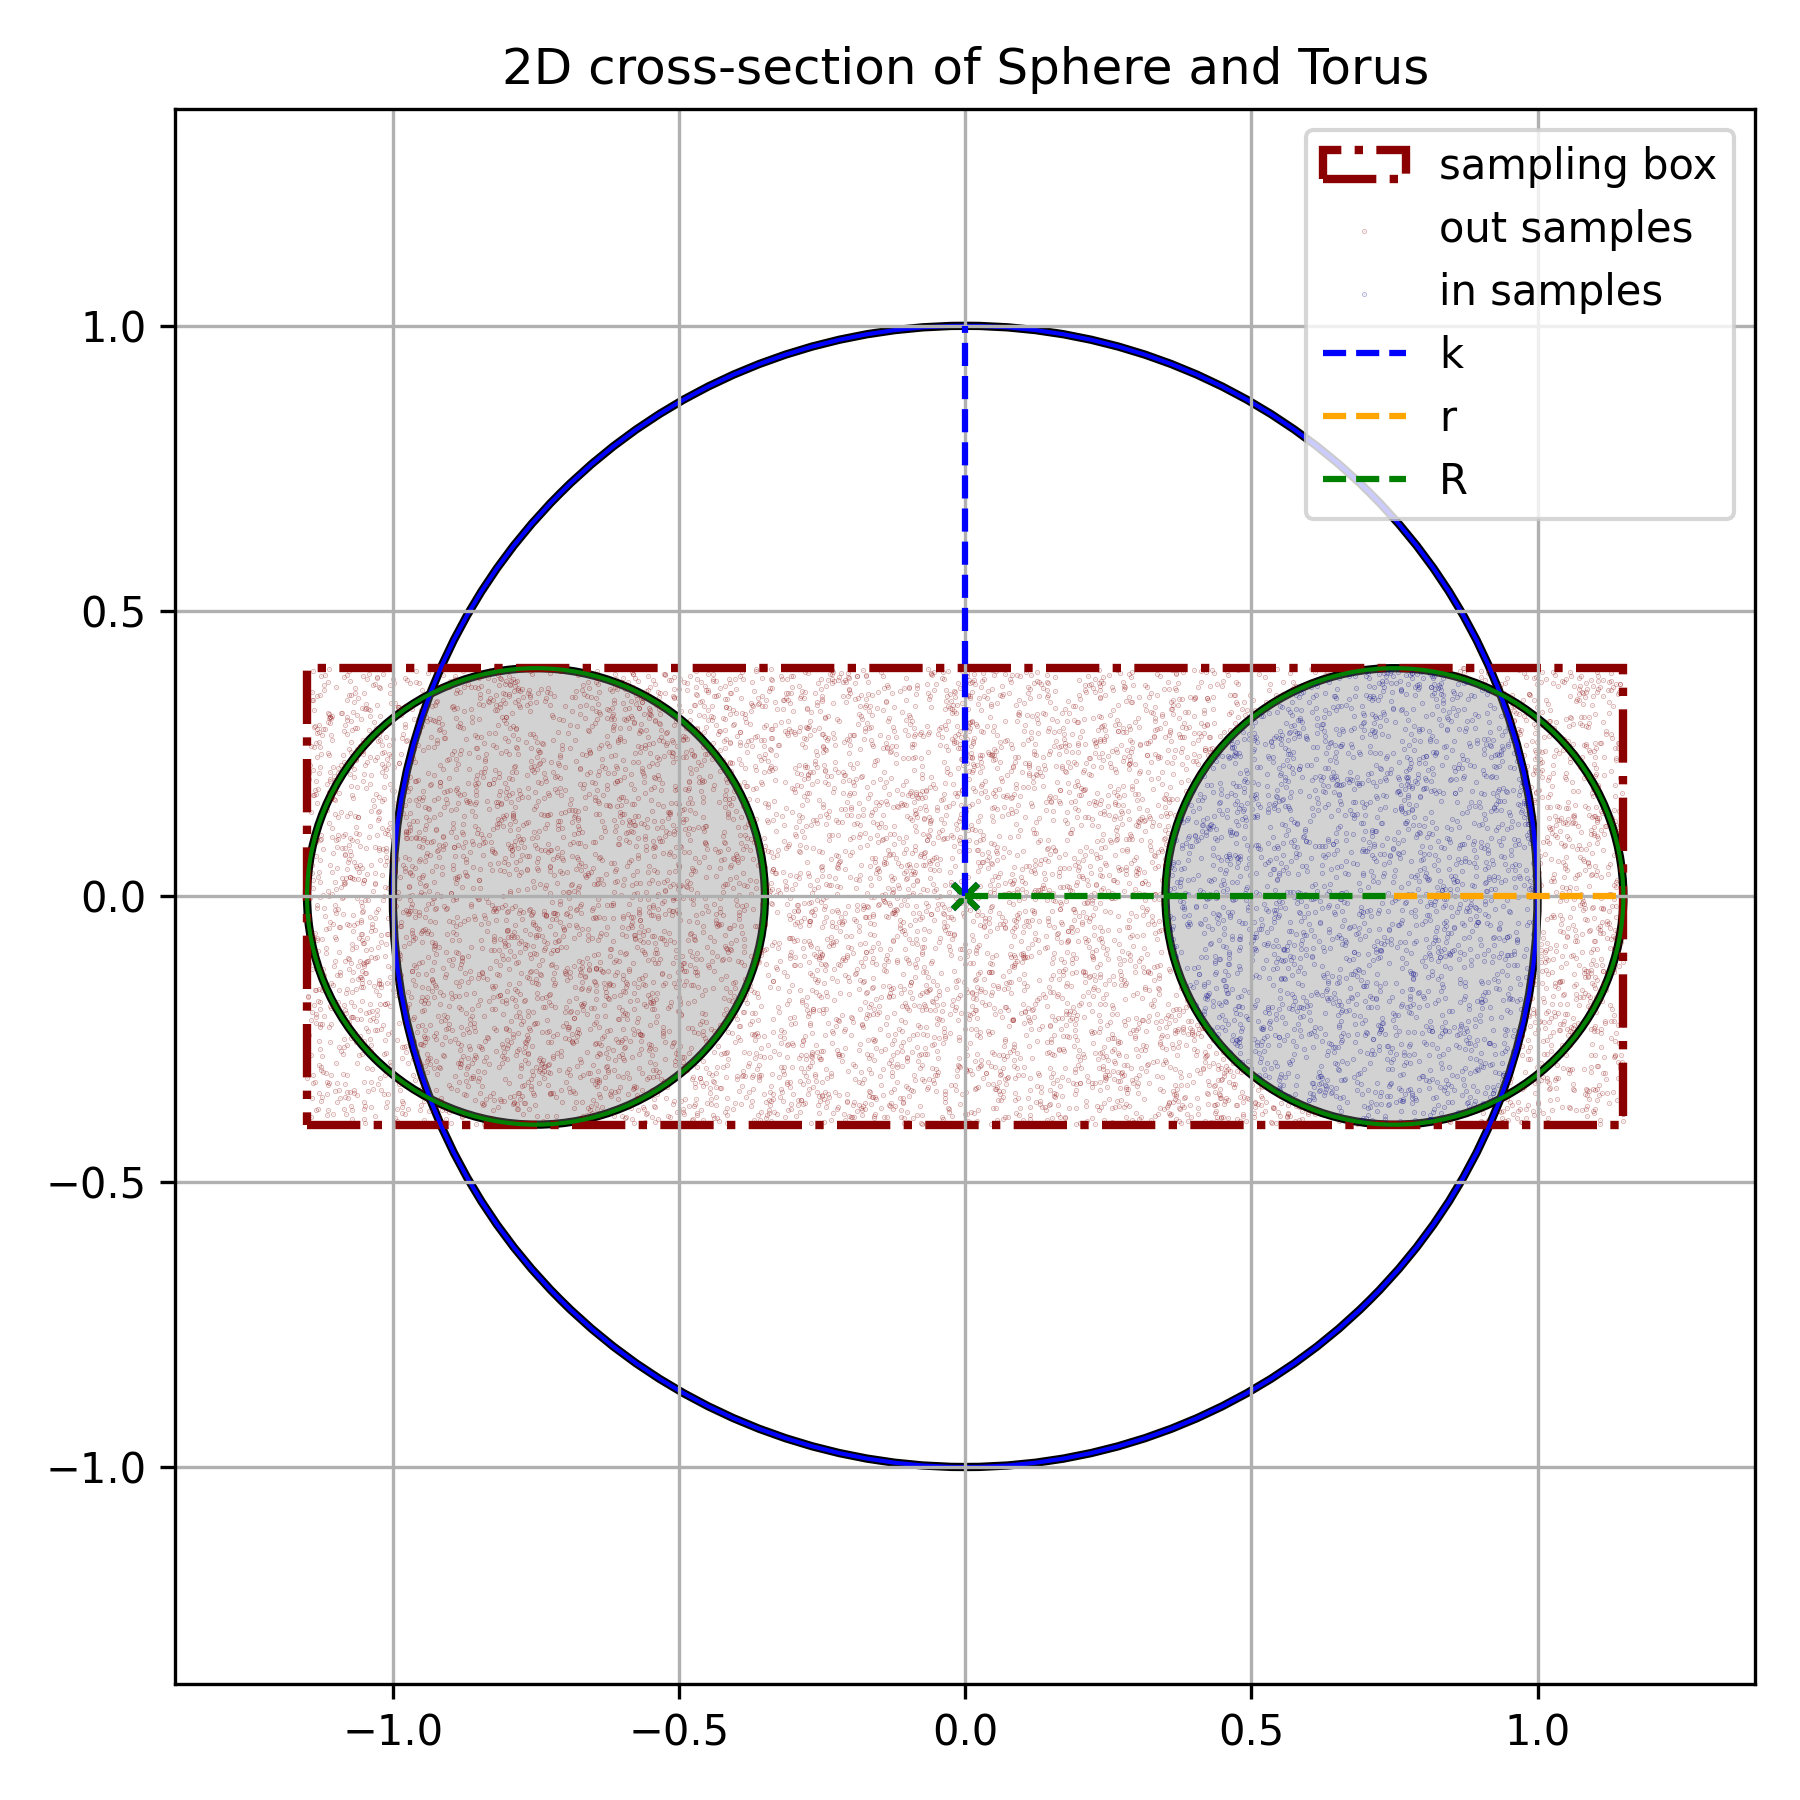
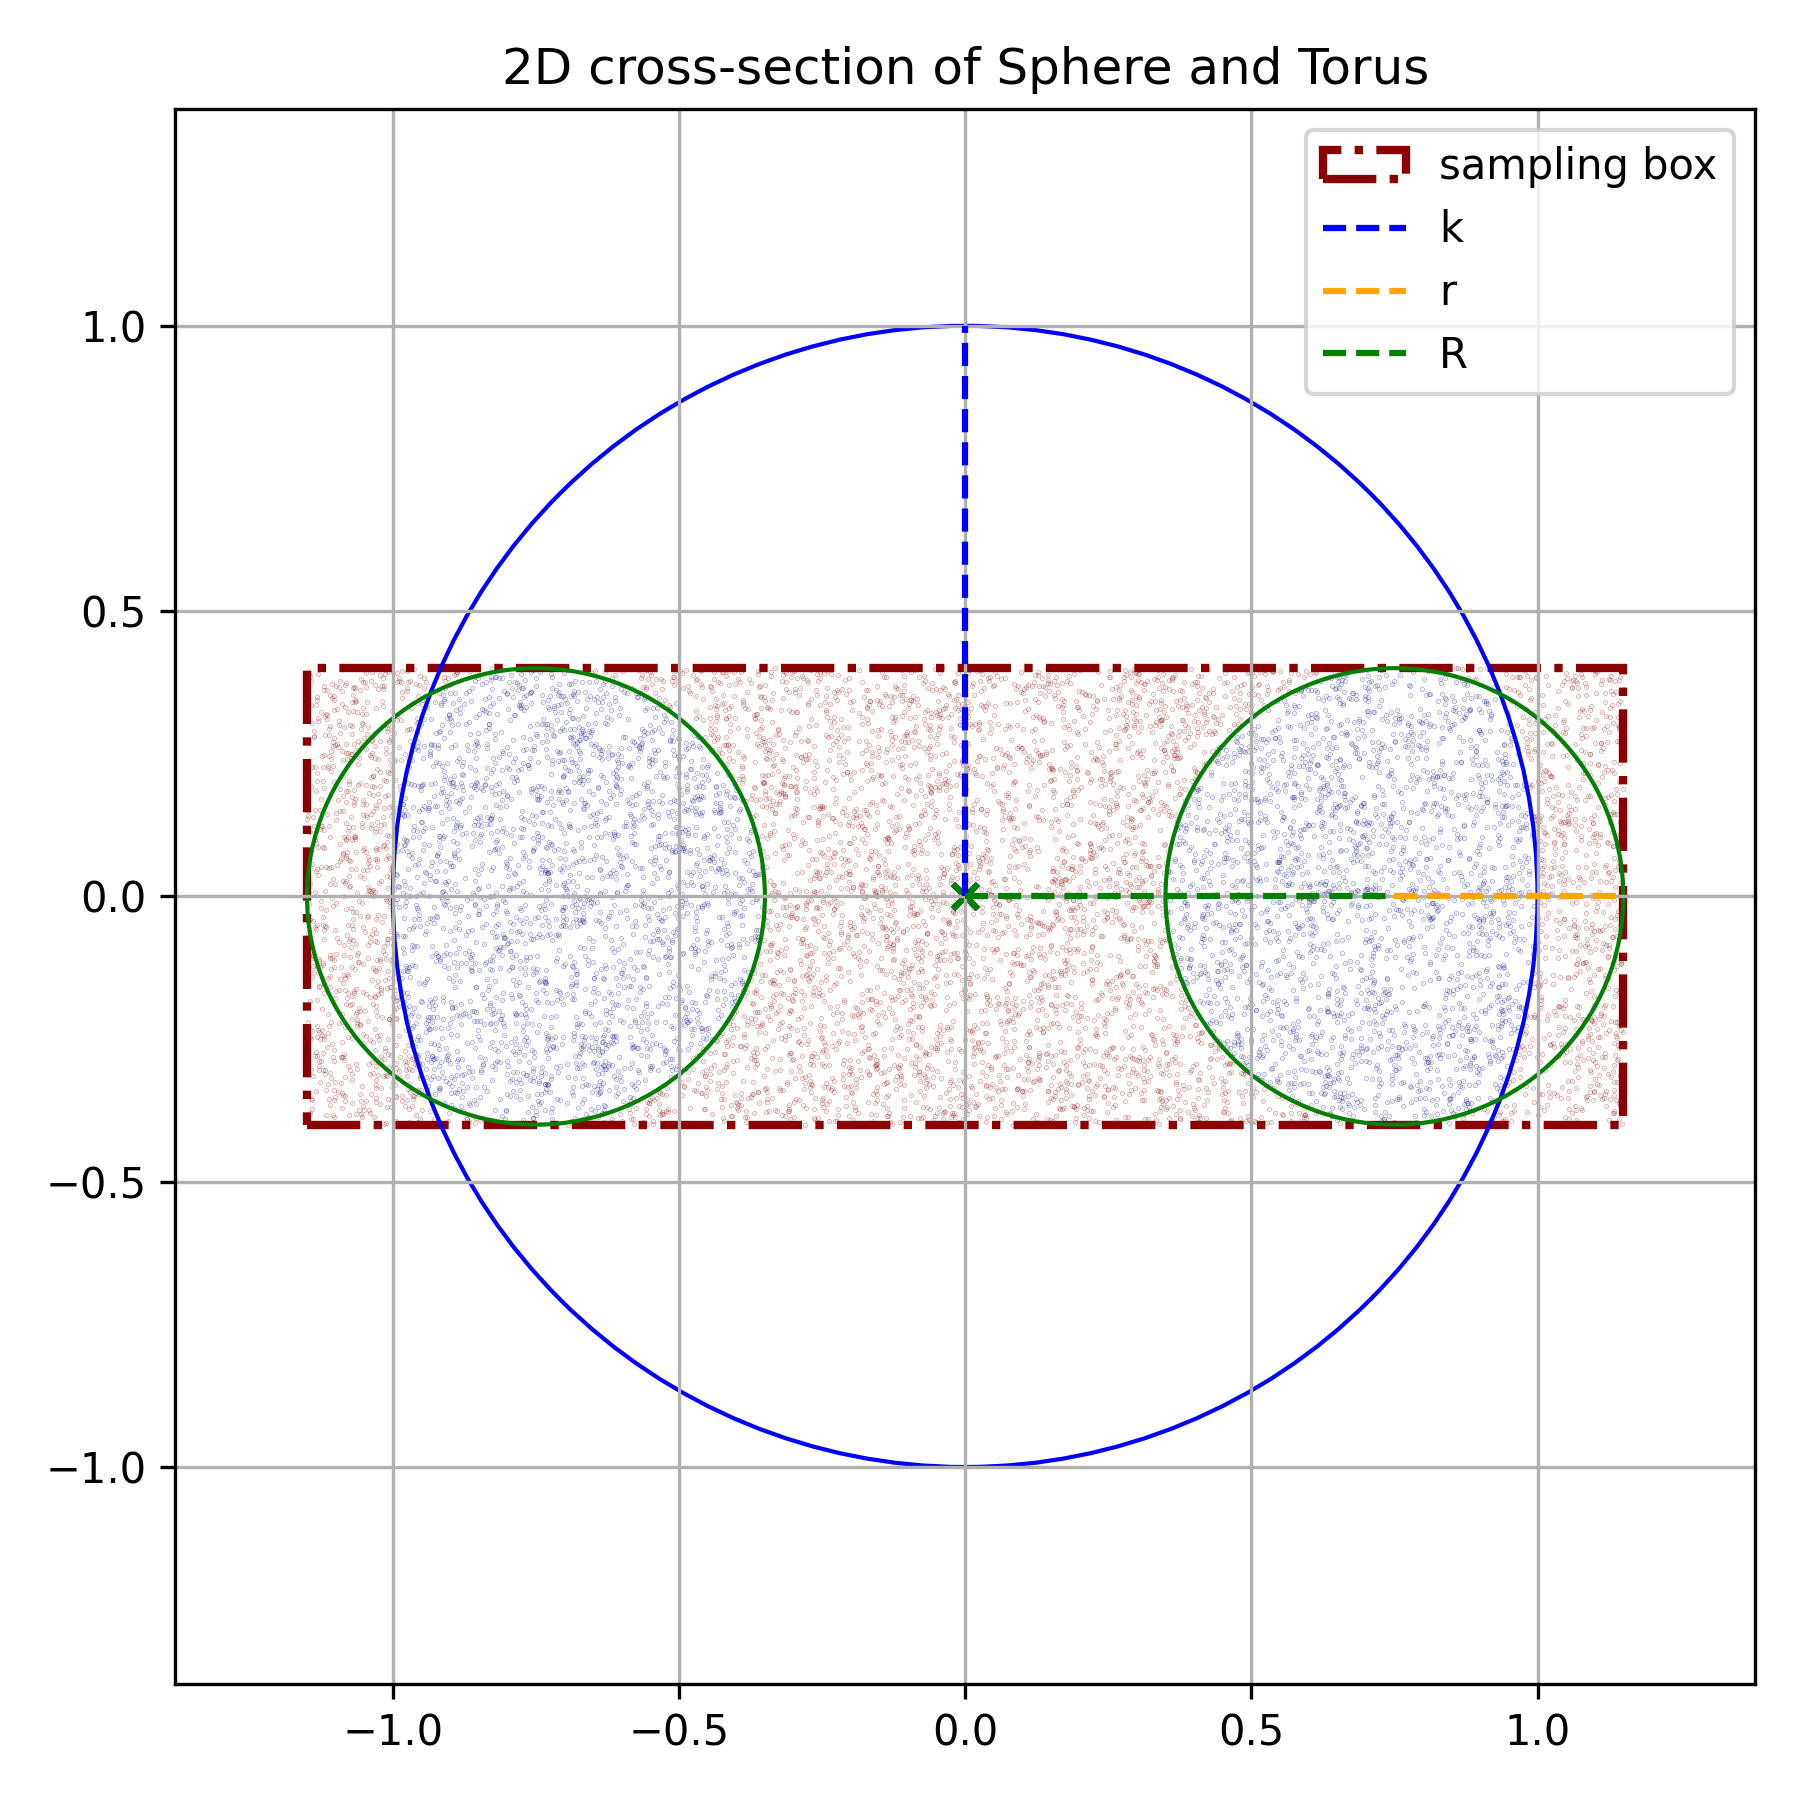
use both intersections

diff --git a/main.py b/main.py
@@ -15,9 +15,17 @@ def torus(
     Returns true if the given points (x, y, z) is inside the torus defined by the
     major radius R and the minor radius r.
     """
-    result = (np.sqrt((x - origin[0]) ^ 2 + (y - origin[1]) ^ 2) - R) ^ 2 + (
-        z - origin[2]
-    ) ^ 2 - r ^ 2 <= 0
+    result = (
+        (np.sqrt((x - origin[0]) ** 2 + (y - origin[1]) ** 2) - R) ** 2
+        + (z - origin[2]) ** 2
+        - r**2
+        <= 0
+    ) or (
+        (np.sqrt((x - origin[0]) ** 2 + (y - origin[1]) ** 2) + R) ** 2
+        + (z - origin[2]) ** 2
+        - r**2
+        <= 0
+    )
     return result
 
 
@@ -35,7 +43,9 @@ def torus2D(x: float, y: float, r: float, R: float, origin: list = [0, 0]) -> bo
     Returns true if the given points (x, y, z) is inside the torus defined by the
     major radius R and the minor radius r.
     """
-    result = (x - origin[0] - R) ** 2 + (y - origin[1]) ** 2 - r**2 <= 0
+    result = ((x - origin[0] - R) ** 2 + (y - origin[1]) ** 2 - r**2 <= 0) or (
+        (x - origin[0] + R) ** 2 + (y - origin[1]) ** 2 - r**2 <= 0
+    )
     return result
 
 
@@ -137,11 +147,6 @@ def surface_to_volume(R: float, surface_area: float) -> float:
     return volume
 
 
-# neeeded?
-def PRNG():
-    pass
-
-
 def deterministic_sequence(seed: float) -> float:
     """
     Generates a deterministic sequence of numbers based on the seed.
@@ -239,7 +244,7 @@ def plot_2d(
     torus_r = plt.Circle((origin_t[0] - R, origin_t[1]), r, color="green", fill=False)
 
     # fill intersection
-    _fill_between2D(ax, r, R, k, origin_s, origin_t)
+    # _fill_between2D(ax, r, R, k, origin_s, origin_t)
 
     # print box if available
     if box is not None:
@@ -283,7 +288,6 @@ def plot_2d(
                 marker=".",
                 s=0.2,
                 alpha=0.3,
-                label="out samples",
             )
 
             # plot in samples
@@ -294,7 +298,6 @@ def plot_2d(
                 marker=".",
                 s=0.2,
                 alpha=0.3,
-                label="in samples",
             )
         else:
             # plot out samples
@@ -306,7 +309,6 @@ def plot_2d(
                 marker=".",
                 s=0.2,
                 alpha=0.3,
-                label="samples",
             )
 
     # plot
